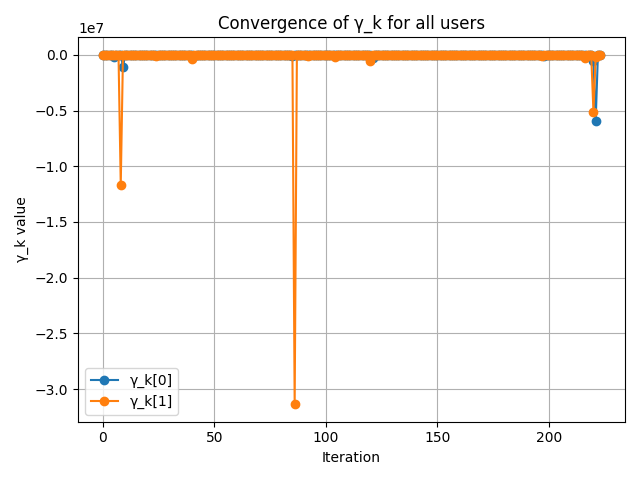
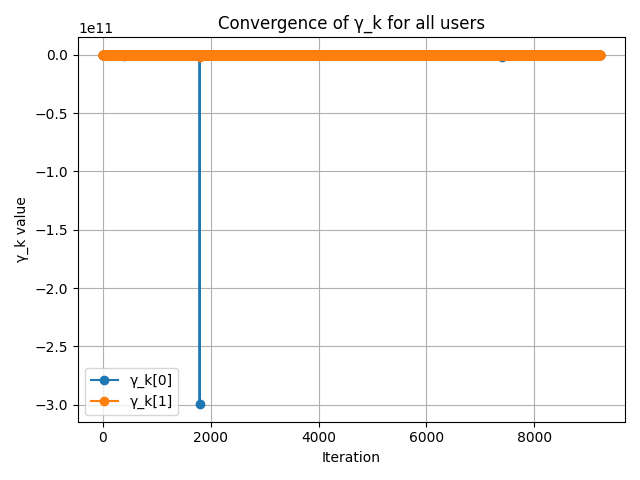
stuck on negative gamma problem

diff --git a/update_functions.py b/update_functions.py
@@ -336,7 +336,7 @@ def compute_gamma_k(A, B, constants, k):
     #     gamma_k = 1e-6
     return gamma_k
 
-def update_B_loop(A, B, constants, outer_tol=1e-10, max_outer_iter=10000, inner_tol=1e-4, max_inner_iter=500):
+def update_B_loop(A, B, constants, outer_tol=1e-6, max_outer_iter=10, inner_tol=1e-4, max_inner_iter=500):
     """
     Outer loop for updating B (V, Lambda, t, alpha, beta).
     Inside each outer iteration, run a micro-inner loop on (w, v) until micro-lagrangian converges.
@@ -375,8 +375,11 @@ def update_B_loop(A, B, constants, outer_tol=1e-10, max_outer_iter=10000, inner_
         #             break
 
         #     prev_micro_lagrangian = current_micro_lagrangian
-        B, _, _ = inner_update_w_v(A, B, constants, max_iter=max_inner_iter, tol=inner_tol)
-
+        B, gamma_history, _ = inner_update_w_v(A, B, constants, max_iter=max_inner_iter, tol=inner_tol)
+        gamma_history = np.array(gamma_history)  # shape: (iterations, K)
+        for k in range(constants.K):
+            print(f"[B inner Final] γ_k[{k}] = {gamma_history[-1, k]:.4e}, w_k norm = {np.linalg.norm(B.W[k]):.4e}, v_k norm = {np.linalg.norm(B.V[k]):.4e}")
+        
         # === Step 2: Update lagrangian multipliers ===
         B = update_lagrangian_variables(A, B, constants)
 
@@ -401,7 +404,36 @@ def update_B_loop(A, B, constants, outer_tol=1e-10, max_outer_iter=10000, inner_
 
     return B, lagrangian_trajectory
 
-import numpy as np
+
+def compute_g1_k(A, B, constants, k):
+    """
+    Compute the full quadratic-transformed utility g_{1,k}^{QT} for user k:
+        g_{1,k}^{QT} = log(1 + gamma_k) + lambda_k (delta_k^H B delta_k - 1)
+
+    Args:
+        A: VariablesA object (contains delta_k)
+        B: VariablesB object (contains W, V, LAMB, and B matrix)
+        constants: GlobalConstants object
+        k: user index
+
+    Returns:
+        g1_k: float, the value of the transformed rate penalty term for user k
+    """
+    gamma_k = compute_gamma_k(A, B, constants, k)
+    delta_k = A.delta[k]  # shape (Nt*Nr, 1)
+    lambda_k = B.LAMB[k]
+    B_matrix = constants.B
+
+    # First term: log(1 + gamma_k), with domain protection
+    if np.real(gamma_k) < -1.0:
+        log_term = -np.inf
+    else:
+        log_term = np.log(np.real(gamma_k))
+
+    # Second term: lambda_k (delta^H B delta - 1)
+    penalty_term = lambda_k * (np.vdot(delta_k, B_matrix @ delta_k).real - 1)
+
+    return log_term + penalty_term
 
 def compute_lagrangian_B(A, B, constants):
     """
@@ -429,28 +461,32 @@ def compute_lagrangian_B(A, B, constants):
         v_k = B.V[k]
         w_k = B.W[k]
 
-        # === Compute SINR-related term
-        interference = sigma2 * np.eye(Nr, dtype=complex)
-        for n in range(K):
-            if n != k:
-                H_hat_n = constants.H_HAT[n]
-                delta_n = A.delta[n].reshape(Nr, Nt)
-                H_n = H_hat_n + delta_n
-                v_n = B.V[n]
-                interference += H_n @ (v_n @ v_n.conj().T) @ H_n.conj().T
+        # # === Compute SINR-related term
+        # interference = sigma2 * np.eye(Nr, dtype=complex)
+        # for n in range(K):
+        #     if n != k:
+        #         H_hat_n = constants.H_HAT[n]
+        #         delta_n = A.delta[n].reshape(Nr, Nt)
+        #         H_n = H_hat_n + delta_n
+        #         v_n = B.V[n]
+        #         interference += H_n @ (v_n @ v_n.conj().T) @ H_n.conj().T
 
-        SINR_k = np.real(w_k.conj().T @ H_k @ v_k + v_k.conj().T @ H_k.conj().T @ w_k \
-                - w_k.conj().T @ interference @ w_k).item()
+        # SINR_k = np.real(w_k.conj().T @ H_k @ v_k + v_k.conj().T @ H_k.conj().T @ w_k \
+        #         - w_k.conj().T @ interference @ w_k).item()
 
-        log_arg = 1+SINR_k
-        g1_k = np.log(log_arg)
+        # log_arg = 1+SINR_k
+        # g1_k = np.log(log_arg)
 
-        # === Add the penalty term (delta_k constraint)
-        delta_penalty = (delta_k.reshape(-1,1).conj().T @ constants.B @ delta_k.reshape(-1,1)).real.item() - 1
+        # # === Add the penalty term (delta_k constraint)
+        # delta_penalty = (delta_k.reshape(-1,1).conj().T @ constants.B @ delta_k.reshape(-1,1)).real.item() - 1
 
-        g1_k += lamb[k] * delta_penalty
+        # g1_k += lamb[k] * delta_penalty
 
-        total_g1 += g1_k
+        # total_g1 += g1_k
+        total_g1 = 0
+        for k in range(K):
+            g1_k = compute_g1_k(A, B, constants, k)
+            total_g1 += g1_k
 
     # === Power penalty term
     total_power = sum(np.linalg.norm(B.V[k])**2 for k in range(K))
@@ -459,7 +495,7 @@ def compute_lagrangian_B(A, B, constants):
     lagrangian = t + alpha * (total_g1 - t) + beta * (Pt - total_power)
 
     return lagrangian
-def update_lagrangian_variables(A, B, constants, eta_t=0.02, eta_lambda=0.02, eta_alpha=0.001, eta_beta=0.01):
+def update_lagrangian_variables(A, B, constants, eta_t=0.01, eta_lambda=0.01, eta_alpha=0.01, eta_beta=0.01):
     """
     Perform gradient ascent on t, lambda_k, alpha, beta.
     """
@@ -474,7 +510,8 @@ def update_lagrangian_variables(A, B, constants, eta_t=0.02, eta_lambda=0.02, et
     lamb = B.LAMB
 
     # === Step 1: compute g1_k for each user
-    g1_list = []
+    # g1_list = []
+    total_g1 = 0
     for k in range(K):
         Nr = constants.NR
         Nt = constants.NT
@@ -485,26 +522,29 @@ def update_lagrangian_variables(A, B, constants, eta_t=0.02, eta_lambda=0.02, et
         v_k = B.V[k]
         w_k = B.W[k]
 
-        interference = sigma2 * np.eye(Nr, dtype=complex)
-        for n in range(K):
-            if n != k:
-                H_hat_n = constants.H_HAT[n]
-                delta_n = A.delta[n].reshape(Nr, Nt)
-                H_n = H_hat_n + delta_n
-                v_n = B.V[n]
-                interference += H_n @ (v_n @ v_n.conj().T) @ H_n.conj().T
+        for a in range(K):
+            g1_k = compute_g1_k(A, B, constants, a)
+            total_g1 += g1_k
+    #     interference = sigma2 * np.eye(Nr, dtype=complex)
+    #     for n in range(K):
+    #         if n != k:
+    #             H_hat_n = constants.H_HAT[n]
+    #             delta_n = A.delta[n].reshape(Nr, Nt)
+    #             H_n = H_hat_n + delta_n
+    #             v_n = B.V[n]
+    #             interference += H_n @ (v_n @ v_n.conj().T) @ H_n.conj().T
 
-        SINR_k = np.real(w_k.conj().T @ H_k @ v_k + v_k.conj().T @ H_k.conj().T @ w_k \
-                - w_k.conj().T @ interference @ w_k).item()
+    #     SINR_k = np.real(w_k.conj().T @ H_k @ v_k + v_k.conj().T @ H_k.conj().T @ w_k \
+    #             - w_k.conj().T @ interference @ w_k).item()
 
-        g1_k = np.log(1 + SINR_k)
+    #     g1_k = np.log(1 + SINR_k)
 
-        delta_penalty = (delta_k.reshape(-1,1).conj().T @ constants.B @ delta_k.reshape(-1,1)).real.item() - 1
-        g1_k += lamb[k] * delta_penalty
+    #     delta_penalty = (delta_k.reshape(-1,1).conj().T @ constants.B @ delta_k.reshape(-1,1)).real.item() - 1
+    #     g1_k += lamb[k] * delta_penalty
 
-        g1_list.append(g1_k)
+    #     g1_list.append(g1_k)
 
-    total_g1 = sum(g1_list)
+    # total_g1 = sum(g1_list)
 
     # === Step 2: update t
     B.t = B.t + eta_t * (1 - alpha)

diff --git a/test_update_B_loop.py b/test_update_B_loop.py
@@ -3,7 +3,7 @@ from update_functions import update_A_loop, update_B_loop
 
 def test_update_B_loop():
     # === Setup constants and variables
-    constants = GlobalConstants(snr_db=10, snrest_db=11, Nt=8, Nr=8, K=8, Pt=64)
+    constants = GlobalConstants(snr_db=10, snrest_db=11, Nt=16, Nr=2, K=2, Pt=2)
     A = VariablesA(constants)
     B = VariablesB(constants)
 
@@ -12,7 +12,7 @@ def test_update_B_loop():
     B = initialize_t(A, B, constants)
     # === Now test B inner loop
     print("=== Starting Algorithm 2 (B update) ===")
-    B, _, _ = update_B_loop(A, B, constants)
+    B, lagrangian_B_trajectory = update_B_loop(A, B, constants, max_outer_iter=10000)
 
     print("=== Finished Algorithm 2 ===")
     print(f"Final outer Lagrangian: {lagrangian_B_trajectory[-1]:.6e}")

diff --git a/test_inner_update_w_v.py b/test_inner_update_w_v.py
@@ -63,7 +63,7 @@ def inner_update_w_v(A, B, constants, max_iter=50000, tol=1e-5):
 
 def test_inner_update_w_v_loop():
     # === Initialization ===
-    constants = GlobalConstants(Nt=16, Nr=2, K=2, Pt=16)    
+    constants = GlobalConstants(Nt=16, Nr=2, K=2, Pt=2)    
     A = VariablesA(constants)
     B = VariablesB(constants)
     B = initialize_t(A, B, constants)
